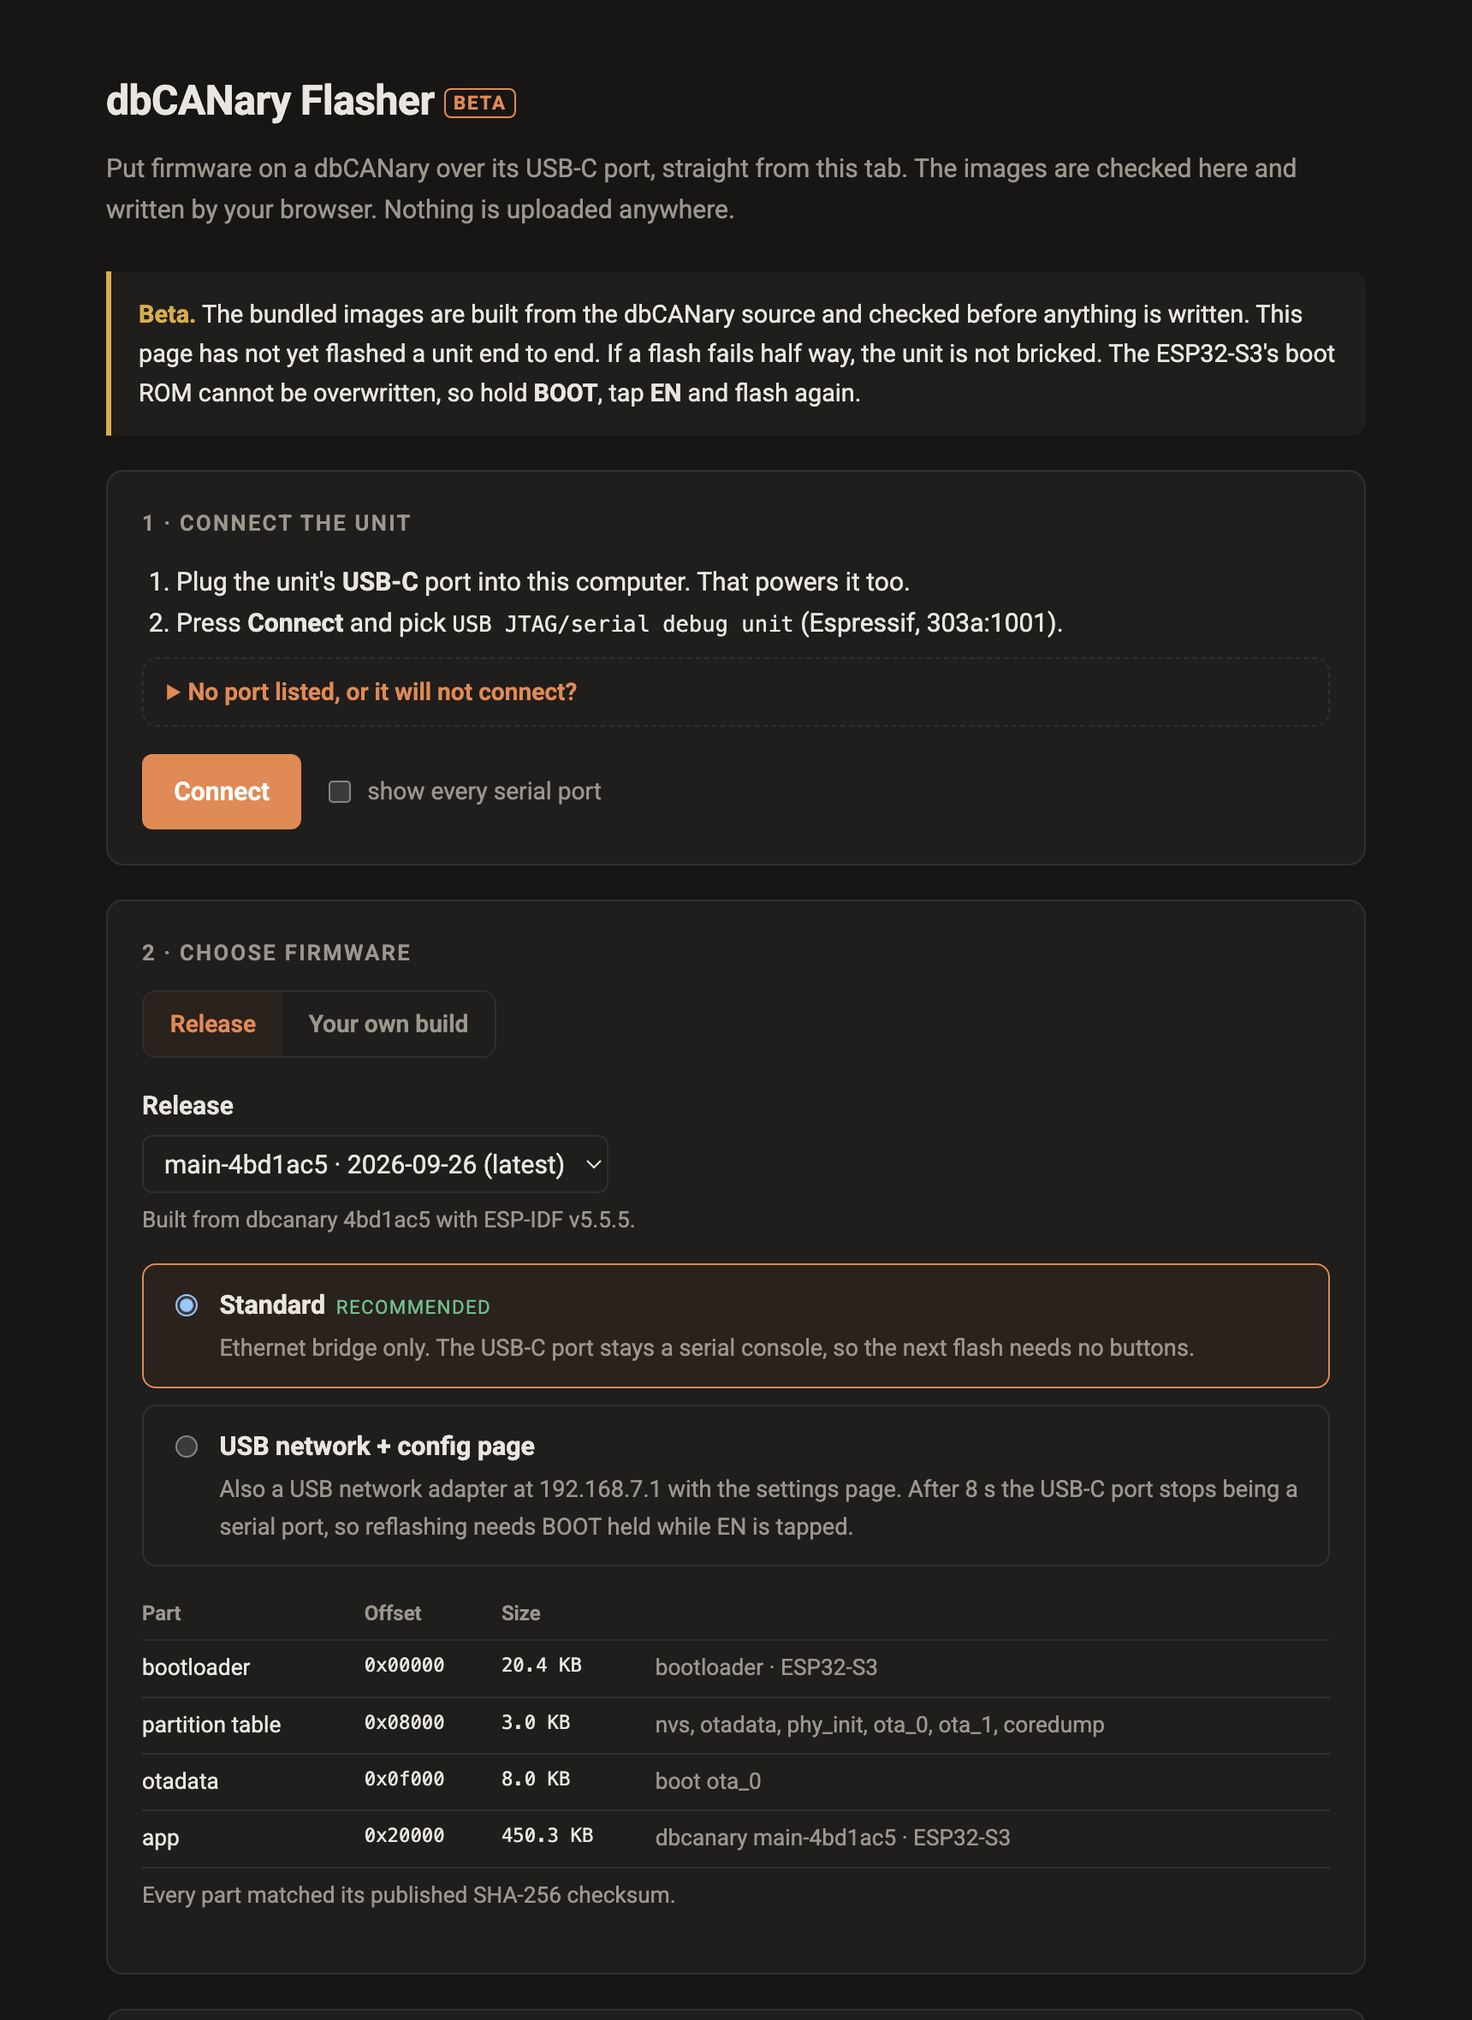
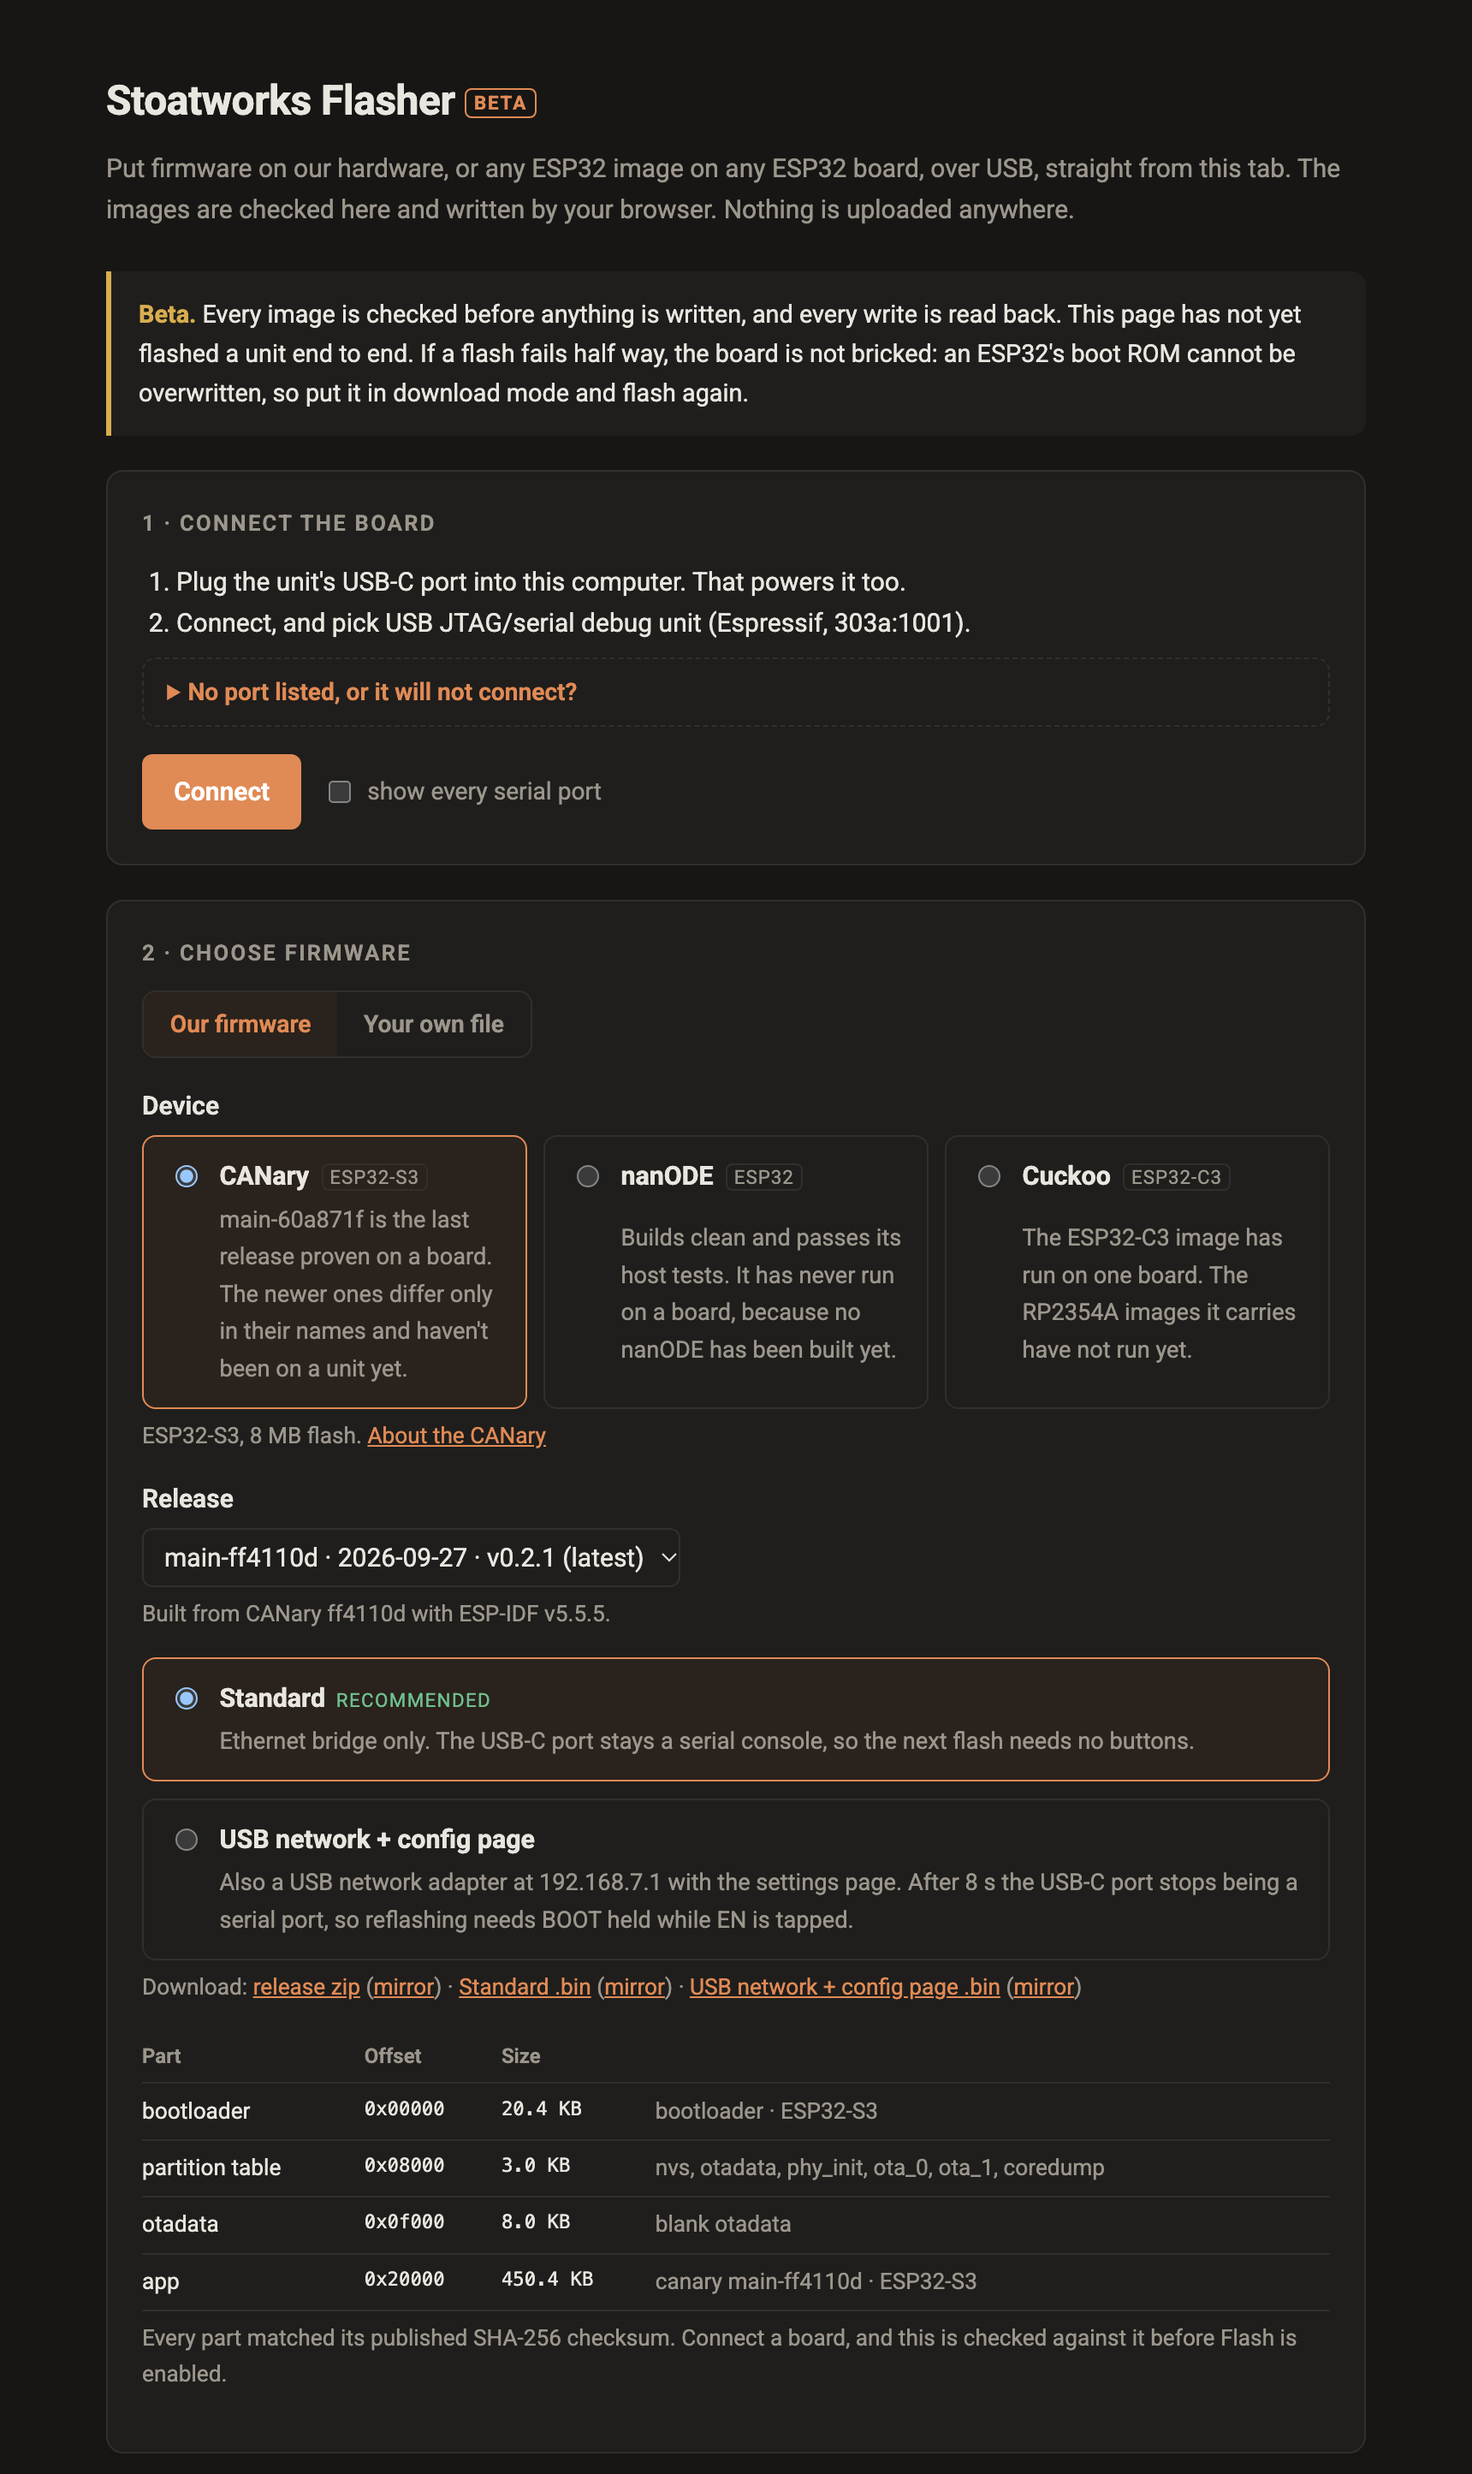
The hidden attribute hides again; a screenshot of the generic page
label.check's inline-flex beat the hidden attribute, so the replace
confirmation showed as an empty, unlabelled checkbox under every plan. A
global [hidden] rule puts that right for it and anything else a class
gives a display. docs/screenshots/flasher.png, which the website's card
and hero are cut from, now shows the three devices.

diff --git a/src/style.css b/src/style.css
@@ -1,3 +1,6 @@
+/* A class that sets display (label.check, .progress) would otherwise beat the hidden attribute. */
+[hidden] { display: none !important; }
+
 :root {
   color-scheme: light dark;
   --bg: #fbfaf8;      --panel: #fff;     --ink: #1c1b1a;   --dim: #6b6864;
